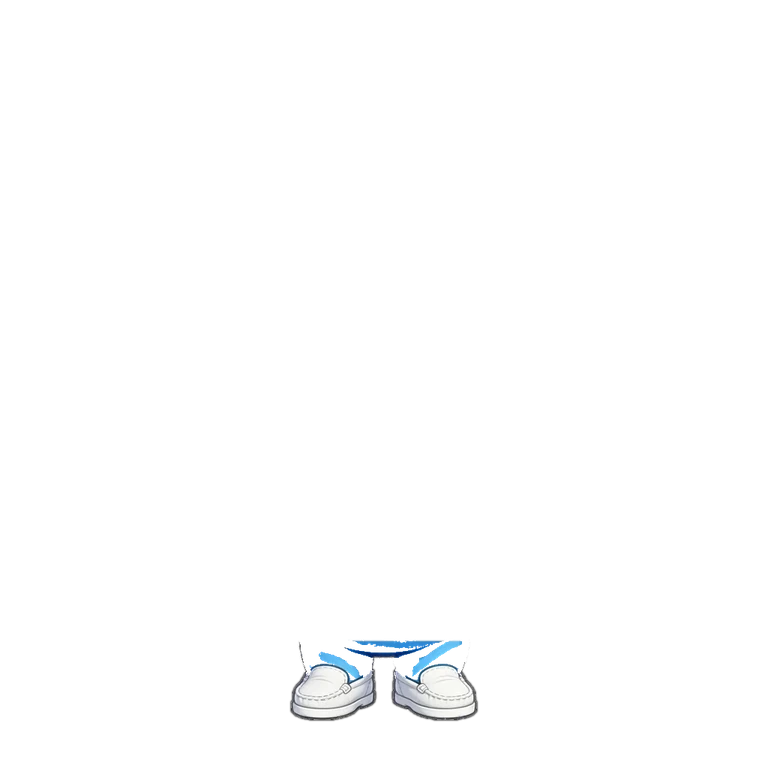
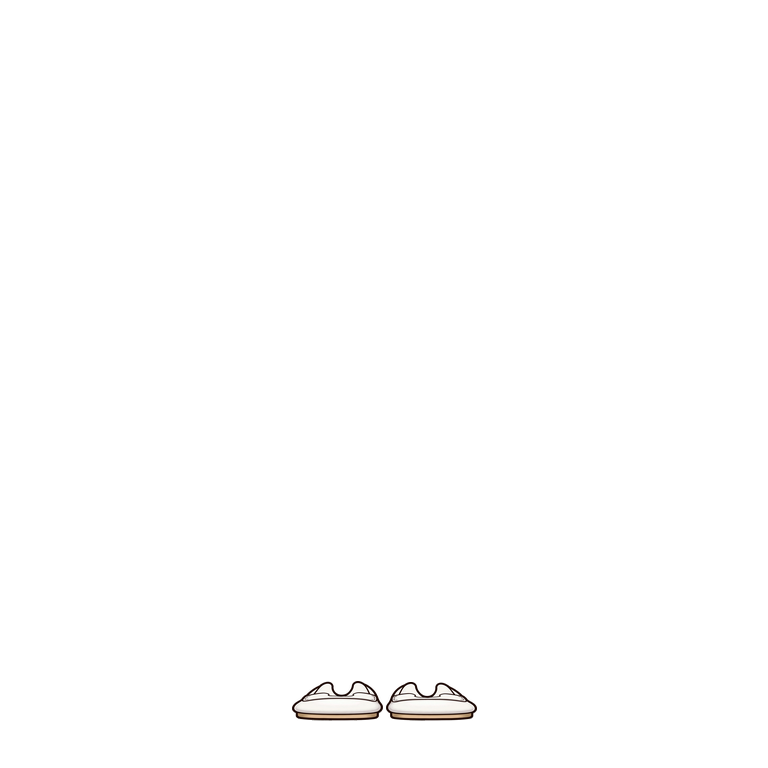
Pi: thay giày lười trắng muahe-nam-giay03 bản Muse vẽ riêng (ôm bàn chân, nền sạch)
npm test: 257 đạt, 0 lỗi.

Claude-Session: https://claude.ai/code/session_0163KSZYdzHDud2uG42gs7mp

Changed region(s): [[0.375, 0.8125, 0.625, 0.9375]]

diff --git a/scripts/pi/build.py b/scripts/pi/build.py
@@ -96,7 +96,7 @@ for side in ("trai", "phai"):
 # 24/10 soát từng món: vệt lá cũ sót xa gốc lá (vùng rộng; KHÔNG áp chung vì vòng hoa có lá thật)
 # 24/10 tối (chủ dự án chốt): món Muse vẽ RIÊNG trên nền trong suốt → chỉ đặt đè lên, KHÔNG chạy bộ cắt lá / vụn (cắt nhầm mũ xanh lá)
 STANDALONE = {  # 25/10: món vẽ riêng đã duyệt ghép
-              "giangsinh-nam-dau01", "giangsinh-nam-dau02", "giangsinh-nam-dau03", "giangsinh-nam-dau04", "giangsinh-nam-dau05", "giangsinh-nam-pk03", "giangsinh-nam-pk12", "giangsinh-nu-dau01", "giangsinh-nu-dau02", "giangsinh-nu-dau04", "giangsinh-nu-pk03", "halloween-nam-dau01", "halloween-nam-dau02", "halloween-nam-dau05", "halloween-nam-pk04", "halloween-nu-dau01", "muadong-nam-dau01", "muadong-nam-dau02", "muadong-nam-dau03", "muadong-nam-dau05", "muadong-nam-pk01", "muadong-nam-pk02", "muadong-nam-pk11", "muadong-nu-dau01", "muadong-nu-dau03", "muadong-nu-dau04", "muadong-nu-pk01", "muadong-nu-pk02", "muahe-nam-dau01", "muahe-nam-dau02", "muahe-nam-dau03", "muahe-nam-dau04", "muahe-nam-pk12", "muahe-nu-dau01", "muahe-nu-dau02", "muahe-nu-dau04", "tet-nam-dau01", "tet-nam-dau02", "tet-nam-dau03", "tet-nam-dau04", "tet-nam-pk03", "tet-nam-pk11", "tet-nu-dau01", "tet-nu-dau02", "tet-nu-dau03", "tet-nu-dau05", "tet-nu-pk04", "tet-nu-pk11", "trungthu-nam-dau01", "trungthu-nam-dau02", "trungthu-nam-dau03", "trungthu-nam-dau04", "trungthu-nam-dau05", "trungthu-nam-pk09", "trungthu-nam-pk10", "trungthu-nam-pk11", "trungthu-nu-dau02", "trungthu-nu-dau05", "trungthu-nu-pk10", "giangsinh-nam-giay01", "muahe-nu-giay02", "giangsinh-nam-giay02", "giangsinh-nam-giay03", "giangsinh-nu-giay01", "giangsinh-nu-giay02", "giangsinh-nu-giay03", "halloween-nam-giay02", "halloween-nam-giay03", "halloween-nu-giay01", "halloween-nu-giay03", "muadong-nam-giay01", "muadong-nam-giay02", "muadong-nam-giay03", "muadong-nu-giay01", "muadong-nu-giay03", "muahe-nam-giay01", "muahe-nam-giay02", "muahe-nu-giay01", "muahe-nu-giay03", "tet-nam-giay01", "tet-nam-giay03", "tet-nu-giay01", "tet-nu-giay02", "tet-nu-giay03", "trungthu-nam-giay01", "trungthu-nam-giay02", "trungthu-nam-giay03", "trungthu-nu-giay01", "trungthu-nu-giay02", "trungthu-nu-giay03"}
+              "giangsinh-nam-dau01", "giangsinh-nam-dau02", "giangsinh-nam-dau03", "giangsinh-nam-dau04", "giangsinh-nam-dau05", "giangsinh-nam-pk03", "giangsinh-nam-pk12", "giangsinh-nu-dau01", "giangsinh-nu-dau02", "giangsinh-nu-dau04", "giangsinh-nu-pk03", "halloween-nam-dau01", "halloween-nam-dau02", "halloween-nam-dau05", "halloween-nam-pk04", "halloween-nu-dau01", "muadong-nam-dau01", "muadong-nam-dau02", "muadong-nam-dau03", "muadong-nam-dau05", "muadong-nam-pk01", "muadong-nam-pk02", "muadong-nam-pk11", "muadong-nu-dau01", "muadong-nu-dau03", "muadong-nu-dau04", "muadong-nu-pk01", "muadong-nu-pk02", "muahe-nam-dau01", "muahe-nam-dau02", "muahe-nam-dau03", "muahe-nam-dau04", "muahe-nam-pk12", "muahe-nu-dau01", "muahe-nu-dau02", "muahe-nu-dau04", "tet-nam-dau01", "tet-nam-dau02", "tet-nam-dau03", "tet-nam-dau04", "tet-nam-pk03", "tet-nam-pk11", "tet-nu-dau01", "tet-nu-dau02", "tet-nu-dau03", "tet-nu-dau05", "tet-nu-pk04", "tet-nu-pk11", "trungthu-nam-dau01", "trungthu-nam-dau02", "trungthu-nam-dau03", "trungthu-nam-dau04", "trungthu-nam-dau05", "trungthu-nam-pk09", "trungthu-nam-pk10", "trungthu-nam-pk11", "trungthu-nu-dau02", "trungthu-nu-dau05", "trungthu-nu-pk10", "giangsinh-nam-giay01", "muahe-nu-giay02", "giangsinh-nam-giay02", "giangsinh-nam-giay03", "giangsinh-nu-giay01", "giangsinh-nu-giay02", "giangsinh-nu-giay03", "halloween-nam-giay02", "halloween-nam-giay03", "halloween-nu-giay01", "halloween-nu-giay03", "muadong-nam-giay01", "muadong-nam-giay02", "muadong-nam-giay03", "muadong-nu-giay01", "muadong-nu-giay03", "muahe-nam-giay01", "muahe-nam-giay02", "muahe-nu-giay01", "muahe-nu-giay03", "tet-nam-giay01", "tet-nam-giay03", "tet-nu-giay01", "tet-nu-giay02", "tet-nu-giay03", "trungthu-nam-giay01", "trungthu-nam-giay02", "trungthu-nam-giay03", "trungthu-nu-giay01", "trungthu-nu-giay02", "trungthu-nu-giay03", "muahe-nam-giay03"}
 SHOE_SCALE = {}  # 25/10: guốc tet-nu-giay02 vẽ lại đúng cỡ
 LEAF_WIDE = {"giangsinh-nam-dau05", "trungthu-nam-dau03", "muahe-nam-dau05", "trungthu-nu-dau02"}
 ARM_HIDE = {"giangsinh-nam-pk07": "trai", "muadong-nam-pk08": "trai", "muadong-nu-pk08": "trai", "muahe-nam-pk05": "trai",
